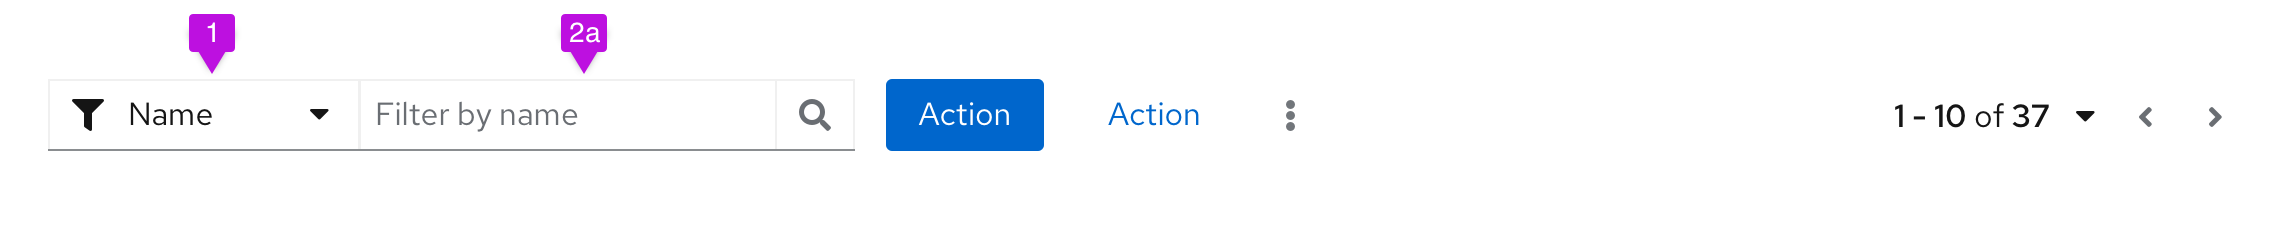
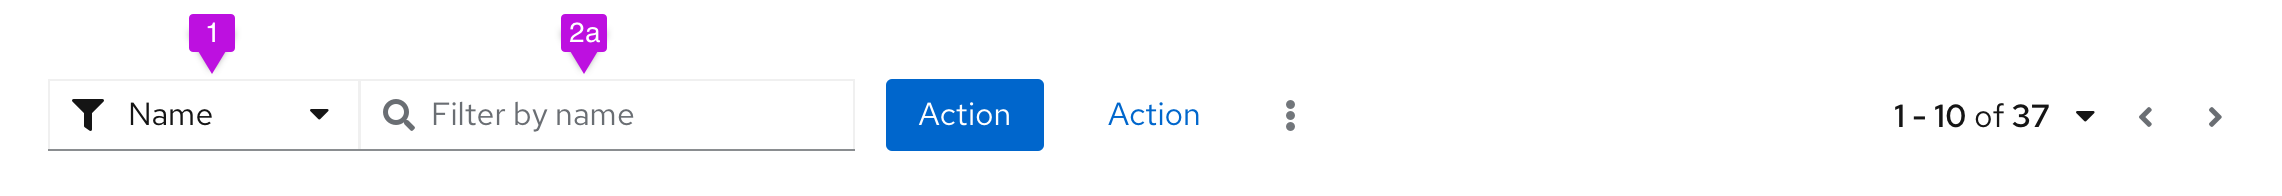
search input update (#2912)
* search input update

* replace images

* other fixes

diff --git a/packages/v4/src/content/design-guidelines/usage-and-behavior/filters/filters.md b/packages/v4/src/content/design-guidelines/usage-and-behavior/filters/filters.md
@@ -5,7 +5,7 @@ related: [
   'Badge',
   'Chip',
   'Chip group',
-  'Input group',
+  'Search input',
   'Options menu',
   'Select',
   'Toolbar'
@@ -33,12 +33,12 @@ Filters consisting of multiple attributes include:
 There are various ways to allow users to filter down content. Filtering methods include [text entry filters](#text-entry-filters), [single selects](#single-select) and [checkbox selects](#checkbox-select).
 
 ### Text entry filters
-A text entry filter provides the user with an input field to type in values that filter the view, whether or not their input is an exact match. There are two types of basic filters: One uses a [search input](/components/search-input) component, the other uses an [input group](/components/input-group) component.
+A text entry filter provides the user with an input field to type in values that filter the view, whether or not their input is an exact match. The text entry filter uses the [search input](/components/search-input) component which can be used with or without a button. 
 
 <img src="./img/text-input.png" alt="text input filters" width="880"/>
 
-1. **Search input:** Filters automatically, as soon as the user starts typing.
-2. **Input group:** Filters on enter, or click of search button.
+1. **Basic search input:** Filters automatically, as soon as the user starts typing.
+2. **Search input with button:** Filters on enter, or click of arrow button.
 
 Note, the placeholder text in your text entry filter should indicate what the user can filter on. If the inputted string is constrained to filter a **single column**, the placeholder text of the input field should read “Filter by _attribute name_”. If the inputted string filters **all columns**, the placeholder text of the input field should read “Filter” instead.
 
@@ -120,7 +120,7 @@ The following elements make up an attribute-value (textbox) filter.
 1. **Attribute selector:** A select list that allows the user to select the attribute that they want to filter against.
 2. **Value selector:** A value selector that is used to pass a value to the filter. The value selector can be any data input component. Common components used for value selection include:
   
-    a. A **text entry field** for entering a value from the keyboard. Use when you will enter the value as unbounded data (e.g. a name). When the text entry field is a search input, the value will appear as a chip automatically, and the search will start being validated. When the text entry field is an input group, the value will appear as a chip and the search will be validated when the user presses the Enter key on their keyboard or the search button. 
+    a. A **text entry field** for entering a value from the keyboard. Use when you will enter the value as unbounded data (e.g. a name). When the text entry field is a basic search input, the value will appear as a chip automatically, and the search will start being validated. When the text entry field is a search input with a button, the value will appear as a chip and the search will be validated when the user presses the Enter key on their keyboard or the arrow button. 
    
     b. A **single select** for selecting a value from a predefined list. This will work the same as a stand alone single select, however since any selection in an attribute filter will result in a chip, there is no need to have an “All” option as part of your menu, as users can reset their filters via the filter chips.
     
